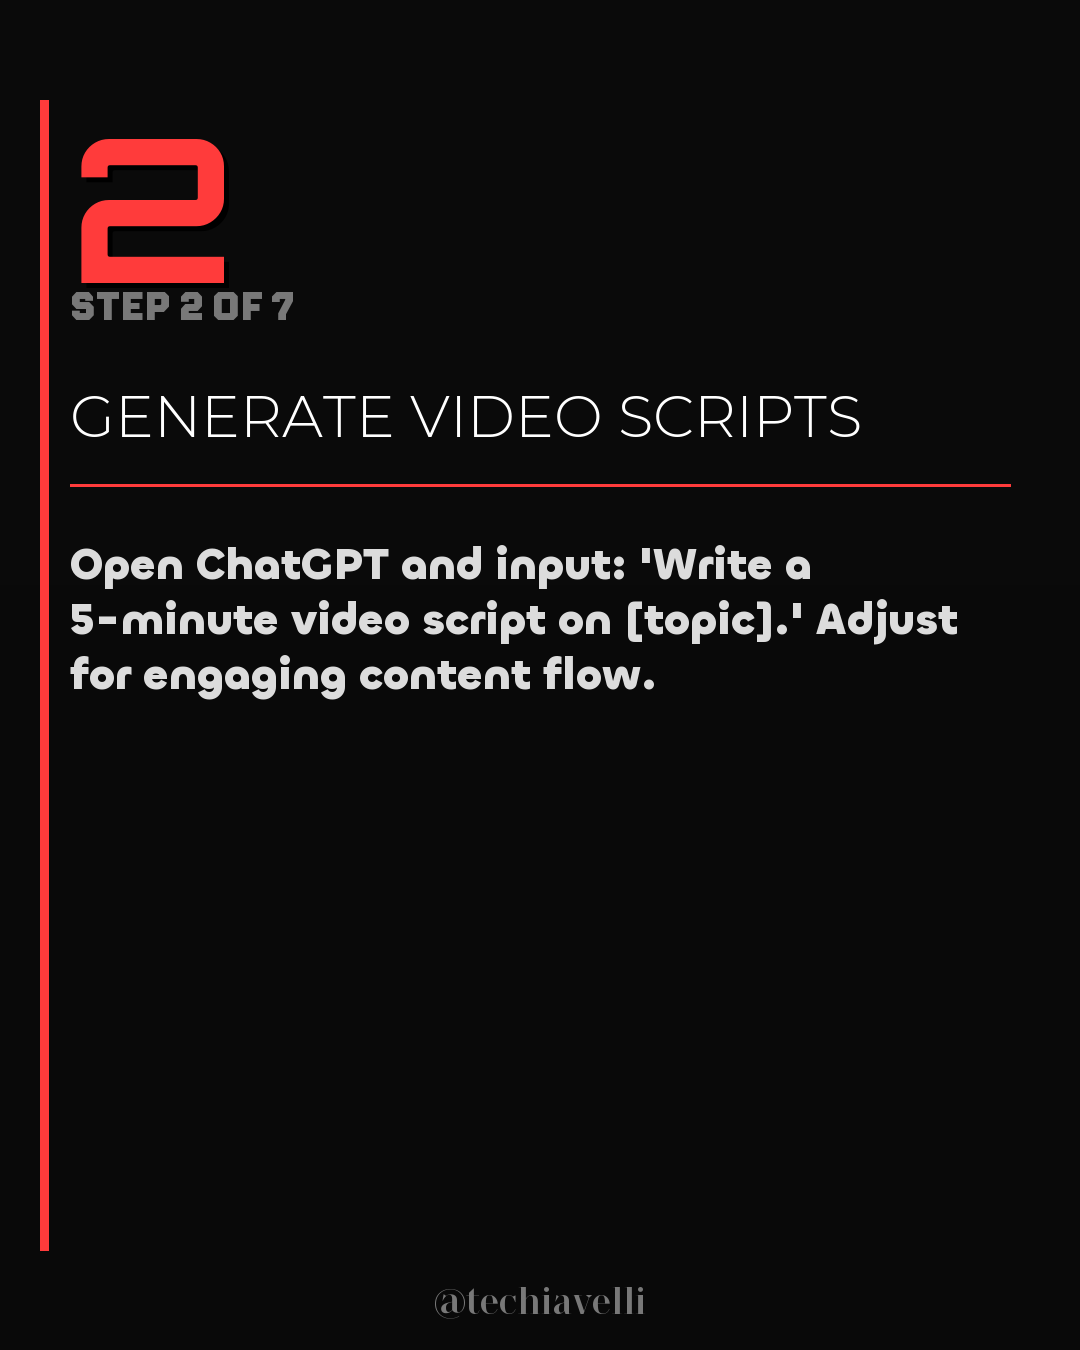
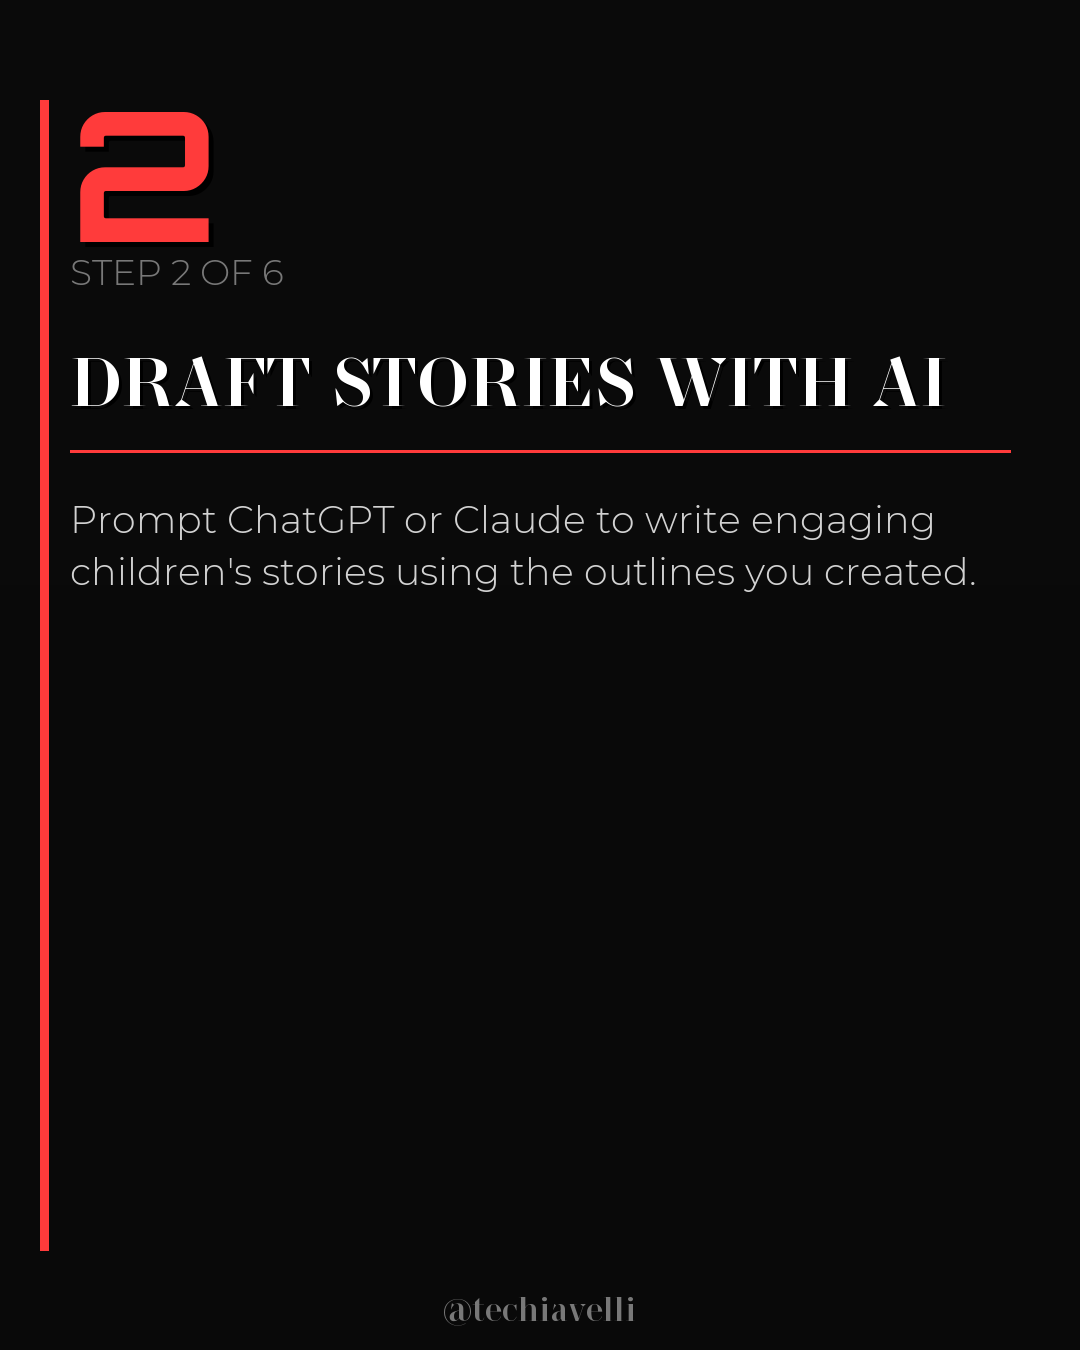
Increase content size and adjust spacing on key slides
Refactor `DailyAidSlideBuilder` to increase font sizes and adjust padding/spacing for title, step, and CTA slides, improving content density and visual impact.

Replit-Commit-Author: Agent
Replit-Commit-Session-Id: e097bc39-29f9-42ff-9f58-d372b871b7d4
Replit-Commit-Checkpoint-Type: full_checkpoint
Replit-Commit-Event-Id: b0fa5c5f-18eb-4161-b82d-5c185b94a483

diff --git a/scripts/daily_aid_slide_builder.py b/scripts/daily_aid_slide_builder.py
@@ -228,7 +228,7 @@ class DailyAidSlideBuilder:
         return total_height
 
     def build_title_slide(self, idea: Dict) -> Path:
-        """Build the title slide with dynamic sizing to fit all content."""
+        """Build the title slide with large, impactful content filling the page."""
         img = self._create_title_background()
         draw = ImageDraw.Draw(img)
         
@@ -239,94 +239,85 @@ class DailyAidSlideBuilder:
         draw.rectangle([(0, 0), (self.width, 6)], fill=accent_rgb)
         draw.rectangle([(0, self.height - 6), (self.width, self.height)], fill=accent_rgb)
         
-        padding = 60
+        padding = 50
         max_text_width = self.width - (padding * 2)
         
         header_text = f"Daily Ai'Ds #{idea_number}"
-        header_font = self._get_dynamic_font(header_text, 'assets/fonts/Comico-Regular.ttf', max_text_width, 100, 60)
+        header_font = ImageFont.truetype('assets/fonts/Comico-Regular.ttf', 95)
         bbox = draw.textbbox((0, 0), header_text, font=header_font)
         header_x = (self.width - (bbox[2] - bbox[0])) // 2
-        self._draw_text_with_shadow(draw, (header_x, 30), header_text, header_font, accent_rgb, shadow_offset=4)
-        header_height = bbox[3] - bbox[1]
+        self._draw_text_with_shadow(draw, (header_x, 25), header_text, header_font, accent_rgb, shadow_offset=4)
         
         title = idea.get('title', 'AI Money Idea')
         income_method = idea.get('income_method', 'automating tasks')
         monthly_income = idea.get('monthly_income', idea.get('estimated_earnings', '$500-2000/mo'))
         
-        title_font = self._get_dynamic_font(title.upper(), 'assets/fonts/Stardom-Regular.ttf', max_text_width, 85, 45)
-        
-        fixed_bottom_height = 200
-        available_middle = self.height - (30 + header_height + 80) - fixed_bottom_height
-        
-        content_start_y = 30 + header_height + 80
-        
-        label_font = ImageFont.truetype('assets/fonts/Montserrat-Light.ttf', 32)
+        label_font = ImageFont.truetype('assets/fonts/Montserrat-Light.ttf', 38)
         label_text = "Easy Prompting Idea:"
         bbox = draw.textbbox((0, 0), label_text, font=label_font)
         x = (self.width - (bbox[2] - bbox[0])) // 2
-        draw.text((x, content_start_y), label_text, font=label_font, fill=(160, 160, 160))
+        draw.text((x, 160), label_text, font=label_font, fill=(160, 160, 160))
         
-        title_y = content_start_y + 50
+        title_font = self._get_dynamic_font(title.upper(), 'assets/fonts/Stardom-Regular.ttf', max_text_width, 95, 55)
         title_lines = self._wrap_text(title.upper(), title_font, max_text_width)
         bbox = draw.textbbox((0, 0), "Ag", font=title_font)
-        line_height = bbox[3] - bbox[1] + 12
+        line_height = bbox[3] - bbox[1] + 15
         
+        title_y = 220
         for line in title_lines:
             bbox = draw.textbbox((0, 0), line, font=title_font)
             line_width = bbox[2] - bbox[0]
             x = (self.width - line_width) // 2
-            self._draw_text_with_shadow(draw, (x, title_y), line, title_font, (255, 255, 255), shadow_offset=3)
+            self._draw_text_with_shadow(draw, (x, title_y), line, title_font, (255, 255, 255), shadow_offset=4)
             title_y += line_height
         
-        method_y = title_y + 40
+        method_y = title_y + 50
         
-        money_label_font = ImageFont.truetype('assets/fonts/Montserrat-Light.ttf', 28)
+        money_label_font = ImageFont.truetype('assets/fonts/Montserrat-Light.ttf', 36)
         money_text = "make money by"
         bbox = draw.textbbox((0, 0), money_text, font=money_label_font)
         x = (self.width - (bbox[2] - bbox[0])) // 2
         draw.text((x, method_y), money_text, font=money_label_font, fill=(150, 150, 150))
         
-        method_y += 38
-        method_font = self._get_dynamic_font(income_method.lower(), 'assets/fonts/Montserrat-Light.ttf', max_text_width, 38, 24)
+        method_y += 50
+        method_font = self._get_dynamic_font(income_method.lower(), 'assets/fonts/Montserrat-Light.ttf', max_text_width, 44, 28)
         method_lines = self._wrap_text(income_method.lower(), method_font, max_text_width)
         for line in method_lines:
             bbox = draw.textbbox((0, 0), line, font=method_font)
             line_width = bbox[2] - bbox[0]
             x = (self.width - line_width) // 2
             draw.text((x, method_y), line, font=method_font, fill=accent_rgb)
-            method_y += 42
-        
-        bottom_section_y = self.height - fixed_bottom_height
+            method_y += 52
         
         if monthly_income:
-            earnings_font = ImageFont.truetype('assets/fonts/Montserrat-Light.ttf', 26)
+            earnings_font = ImageFont.truetype('assets/fonts/Montserrat-Light.ttf', 32)
             earnings_text = "set up in hours and make up to"
             bbox = draw.textbbox((0, 0), earnings_text, font=earnings_font)
             x = (self.width - (bbox[2] - bbox[0])) // 2
-            draw.text((x, bottom_section_y), earnings_text, font=earnings_font, fill=(170, 170, 170))
+            draw.text((x, self.height - 280), earnings_text, font=earnings_font, fill=(170, 170, 170))
             
-            income_font = ImageFont.truetype('assets/fonts/Montserrat-Light.ttf', 36)
+            income_font = ImageFont.truetype('assets/fonts/Montserrat-Light.ttf', 52)
             bbox = draw.textbbox((0, 0), monthly_income, font=income_font)
             x = (self.width - (bbox[2] - bbox[0])) // 2
-            draw.text((x, bottom_section_y + 35), monthly_income, font=income_font, fill=green_rgb)
+            draw.text((x, self.height - 235), monthly_income, font=income_font, fill=green_rgb)
         
-        tagline_font = ImageFont.truetype('assets/fonts/Comico-Regular.ttf', 26)
+        tagline_font = ImageFont.truetype('assets/fonts/Comico-Regular.ttf', 30)
         tagline = "The hardest part is getting started.."
         tagline2 = "I just solved that - so give this a shot?"
         
         bbox = draw.textbbox((0, 0), tagline, font=tagline_font)
         x = (self.width - (bbox[2] - bbox[0])) // 2
-        draw.text((x, self.height - 115), tagline, font=tagline_font, fill=accent_rgb)
+        draw.text((x, self.height - 150), tagline, font=tagline_font, fill=accent_rgb)
         
         bbox = draw.textbbox((0, 0), tagline2, font=tagline_font)
         x = (self.width - (bbox[2] - bbox[0])) // 2
-        draw.text((x, self.height - 80), tagline2, font=tagline_font, fill=accent_rgb)
+        draw.text((x, self.height - 110), tagline2, font=tagline_font, fill=accent_rgb)
         
         watermark = self.branding.get('watermark', '@techiavelli')
-        watermark_font = ImageFont.truetype('assets/fonts/Stardom-Regular.ttf', 28)
+        watermark_font = ImageFont.truetype('assets/fonts/Stardom-Regular.ttf', 32)
         bbox = draw.textbbox((0, 0), watermark, font=watermark_font)
         x = (self.width - (bbox[2] - bbox[0])) // 2
-        draw.text((x, self.height - 45), watermark, font=watermark_font, fill=(120, 120, 120))
+        draw.text((x, self.height - 60), watermark, font=watermark_font, fill=(120, 120, 120))
         
         output_path = self.output_dir / f"slide_00_title.png"
         img.save(output_path, 'PNG', quality=95)
@@ -334,7 +325,7 @@ class DailyAidSlideBuilder:
         return output_path
     
     def build_step_slide(self, step: Dict, step_index: int, total_steps: int) -> Path:
-        """Build a step slide."""
+        """Build a step slide with Stardom headers and Montserrat body."""
         img = self._create_base_image()
         img = self._add_gradient_overlay(img)
         draw = ImageDraw.Draw(img)
@@ -343,35 +334,45 @@ class DailyAidSlideBuilder:
         
         accent_rgb = self._hex_to_rgb(self.accent_color)
         step_num = str(step.get('number', step_index + 1))
+        padding = 70
+        max_text_width = self.width - (padding * 2)
         
-        self._draw_text_with_shadow(draw, (70, 80), step_num, self.font_step_number, accent_rgb, shadow_offset=5)
+        number_font = ImageFont.truetype('assets/fonts/Orbitron-Bold.ttf', 180)
+        self._draw_text_with_shadow(draw, (padding, 60), step_num, number_font, accent_rgb, shadow_offset=5)
         
+        progress_font = ImageFont.truetype('assets/fonts/Montserrat-Light.ttf', 36)
         progress_text = f"STEP {step_num} OF {total_steps}"
-        draw.text((70, 280), progress_text, font=self.font_header, fill=(120, 120, 120))
+        draw.text((padding, 250), progress_text, font=progress_font, fill=(120, 120, 120))
         
         step_title = step.get('title', f'Step {step_num}')
-        title_lines = self._wrap_text(step_title.upper(), self.font_step_header_light, self.width - 140)
+        title_font = self._get_dynamic_font(step_title.upper(), 'assets/fonts/Stardom-Regular.ttf', max_text_width, 70, 40)
+        title_lines = self._wrap_text(step_title.upper(), title_font, max_text_width)
         
-        y_offset = 380
+        bbox = draw.textbbox((0, 0), "Ag", font=title_font)
+        line_height = bbox[3] - bbox[1] + 12
+        
+        y_offset = 340
         for line in title_lines:
-            draw.text((70, y_offset), line, font=self.font_step_header_light, fill=(255, 255, 255))
-            y_offset += 75
+            self._draw_text_with_shadow(draw, (padding, y_offset), line, title_font, (255, 255, 255), shadow_offset=3)
+            y_offset += line_height
         
         y_offset += 30
-        draw.line([(70, y_offset), (self.width - 70, y_offset)], fill=accent_rgb, width=3)
-        y_offset += 50
+        draw.line([(padding, y_offset), (self.width - padding, y_offset)], fill=accent_rgb, width=3)
+        y_offset += 45
         
         description = step.get('description', '')
-        desc_lines = self._wrap_text(description, self.font_body_large, self.width - 140)
+        body_font = ImageFont.truetype('assets/fonts/Montserrat-Light.ttf', 38)
+        desc_lines = self._wrap_text(description, body_font, max_text_width)
         
         for line in desc_lines:
-            draw.text((70, y_offset), line, font=self.font_body_large, fill=(220, 220, 220))
-            y_offset += 55
+            draw.text((padding, y_offset), line, font=body_font, fill=(210, 210, 210))
+            y_offset += 52
         
         watermark = self.branding.get('watermark', '@techiavelli')
-        bbox = draw.textbbox((0, 0), watermark, font=self.font_stardom_medium)
+        watermark_font = ImageFont.truetype('assets/fonts/Stardom-Regular.ttf', 32)
+        bbox = draw.textbbox((0, 0), watermark, font=watermark_font)
         x = (self.width - (bbox[2] - bbox[0])) // 2
-        draw.text((x, self.height - 70), watermark, font=self.font_stardom_medium, fill=(120, 120, 120))
+        draw.text((x, self.height - 60), watermark, font=watermark_font, fill=(120, 120, 120))
         
         output_path = self.output_dir / f"slide_{step_index + 1:02d}_step.png"
         img.save(output_path, 'PNG', quality=95)
@@ -379,7 +380,7 @@ class DailyAidSlideBuilder:
         return output_path
     
     def build_cta_slide(self, idea: Dict) -> Path:
-        """Build the call-to-action slide with dynamic sizing to fit all content."""
+        """Build the call-to-action slide with large, impactful content."""
         img = self._create_title_background()
         draw = ImageDraw.Draw(img)
         
@@ -389,69 +390,61 @@ class DailyAidSlideBuilder:
         draw.rectangle([(0, 0), (self.width, 6)], fill=accent_rgb)
         draw.rectangle([(0, self.height - 6), (self.width, self.height)], fill=accent_rgb)
         
-        padding = 60
+        padding = 50
         max_text_width = self.width - (padding * 2)
         
-        header_font = self._get_dynamic_font("Ready to Start?", 'assets/fonts/Comico-Regular.ttf', max_text_width, 90, 50)
+        header_font = ImageFont.truetype('assets/fonts/Comico-Regular.ttf', 95)
         ready_text = "Ready to Start?"
         bbox = draw.textbbox((0, 0), ready_text, font=header_font)
         x = (self.width - (bbox[2] - bbox[0])) // 2
-        self._draw_text_with_shadow(draw, (x, 80), ready_text, header_font, accent_rgb, shadow_offset=4)
-        header_height = bbox[3] - bbox[1]
+        self._draw_text_with_shadow(draw, (x, 50), ready_text, header_font, accent_rgb, shadow_offset=4)
         
-        content_start_y = 80 + header_height + 80
-        
-        label_font = ImageFont.truetype('assets/fonts/Montserrat-Light.ttf', 32)
+        label_font = ImageFont.truetype('assets/fonts/Montserrat-Light.ttf', 40)
         cta_label = "Just copy the caption below into"
         bbox = draw.textbbox((0, 0), cta_label, font=label_font)
         x = (self.width - (bbox[2] - bbox[0])) // 2
-        draw.text((x, content_start_y), cta_label, font=label_font, fill=(160, 160, 160))
+        draw.text((x, 220), cta_label, font=label_font, fill=(160, 160, 160))
         
-        main_y = content_start_y + 55
         cta_main = "CHATGPT OR CLAUDE"
-        main_font = self._get_dynamic_font(cta_main, 'assets/fonts/Stardom-Regular.ttf', max_text_width, 75, 40)
+        main_font = self._get_dynamic_font(cta_main, 'assets/fonts/Stardom-Regular.ttf', max_text_width, 90, 50)
         bbox = draw.textbbox((0, 0), cta_main, font=main_font)
         x = (self.width - (bbox[2] - bbox[0])) // 2
-        self._draw_text_with_shadow(draw, (x, main_y), cta_main, main_font, (255, 255, 255), shadow_offset=3)
-        main_height = bbox[3] - bbox[1]
+        self._draw_text_with_shadow(draw, (x, 290), cta_main, main_font, (255, 255, 255), shadow_offset=4)
         
-        label2_y = main_y + main_height + 25
         cta_label2 = "and let AI guide you through it"
         bbox = draw.textbbox((0, 0), cta_label2, font=label_font)
         x = (self.width - (bbox[2] - bbox[0])) // 2
-        draw.text((x, label2_y), cta_label2, font=label_font, fill=(160, 160, 160))
+        draw.text((x, 420), cta_label2, font=label_font, fill=(160, 160, 160))
         
-        arrow_y = label2_y + 80
         arrow_text = "↓"
-        arrow_font = ImageFont.truetype('assets/fonts/Montserrat-Light.ttf', 100)
+        arrow_font = ImageFont.truetype('assets/fonts/Montserrat-Light.ttf', 140)
         bbox = draw.textbbox((0, 0), arrow_text, font=arrow_font)
         x = (self.width - (bbox[2] - bbox[0])) // 2
-        draw.text((x, arrow_y), arrow_text, font=arrow_font, fill=green_rgb)
+        draw.text((x, 520), arrow_text, font=arrow_font, fill=green_rgb)
         
-        hint_y = arrow_y + 130
-        hint_font = ImageFont.truetype('assets/fonts/Montserrat-Light.ttf', 30)
+        hint_font = ImageFont.truetype('assets/fonts/Montserrat-Light.ttf', 42)
         caption_hint = "THE PROMPT IS IN THE CAPTION"
         bbox = draw.textbbox((0, 0), caption_hint, font=hint_font)
         x = (self.width - (bbox[2] - bbox[0])) // 2
-        draw.text((x, hint_y), caption_hint, font=hint_font, fill=(180, 180, 180))
+        draw.text((x, 730), caption_hint, font=hint_font, fill=(180, 180, 180))
         
         tools = idea.get('tools_mentioned', [])
         if tools:
-            tools_font = ImageFont.truetype('assets/fonts/Montserrat-Light.ttf', 26)
+            tools_font = ImageFont.truetype('assets/fonts/Montserrat-Light.ttf', 32)
             tools_text = "Tools: " + ", ".join(tools[:5])
             tools_lines = self._wrap_text(tools_text, tools_font, max_text_width)
-            y_tools = self.height - 140
+            y_tools = self.height - 160
             for line in tools_lines:
                 bbox = draw.textbbox((0, 0), line, font=tools_font)
                 x = (self.width - (bbox[2] - bbox[0])) // 2
                 draw.text((x, y_tools), line, font=tools_font, fill=(120, 120, 120))
-                y_tools += 35
+                y_tools += 42
         
         watermark = self.branding.get('watermark', '@techiavelli')
-        watermark_font = ImageFont.truetype('assets/fonts/Stardom-Regular.ttf', 28)
+        watermark_font = ImageFont.truetype('assets/fonts/Stardom-Regular.ttf', 32)
         bbox = draw.textbbox((0, 0), watermark, font=watermark_font)
         x = (self.width - (bbox[2] - bbox[0])) // 2
-        draw.text((x, self.height - 45), watermark, font=watermark_font, fill=(120, 120, 120))
+        draw.text((x, self.height - 60), watermark, font=watermark_font, fill=(120, 120, 120))
         
         output_path = self.output_dir / "slide_99_cta.png"
         img.save(output_path, 'PNG', quality=95)
